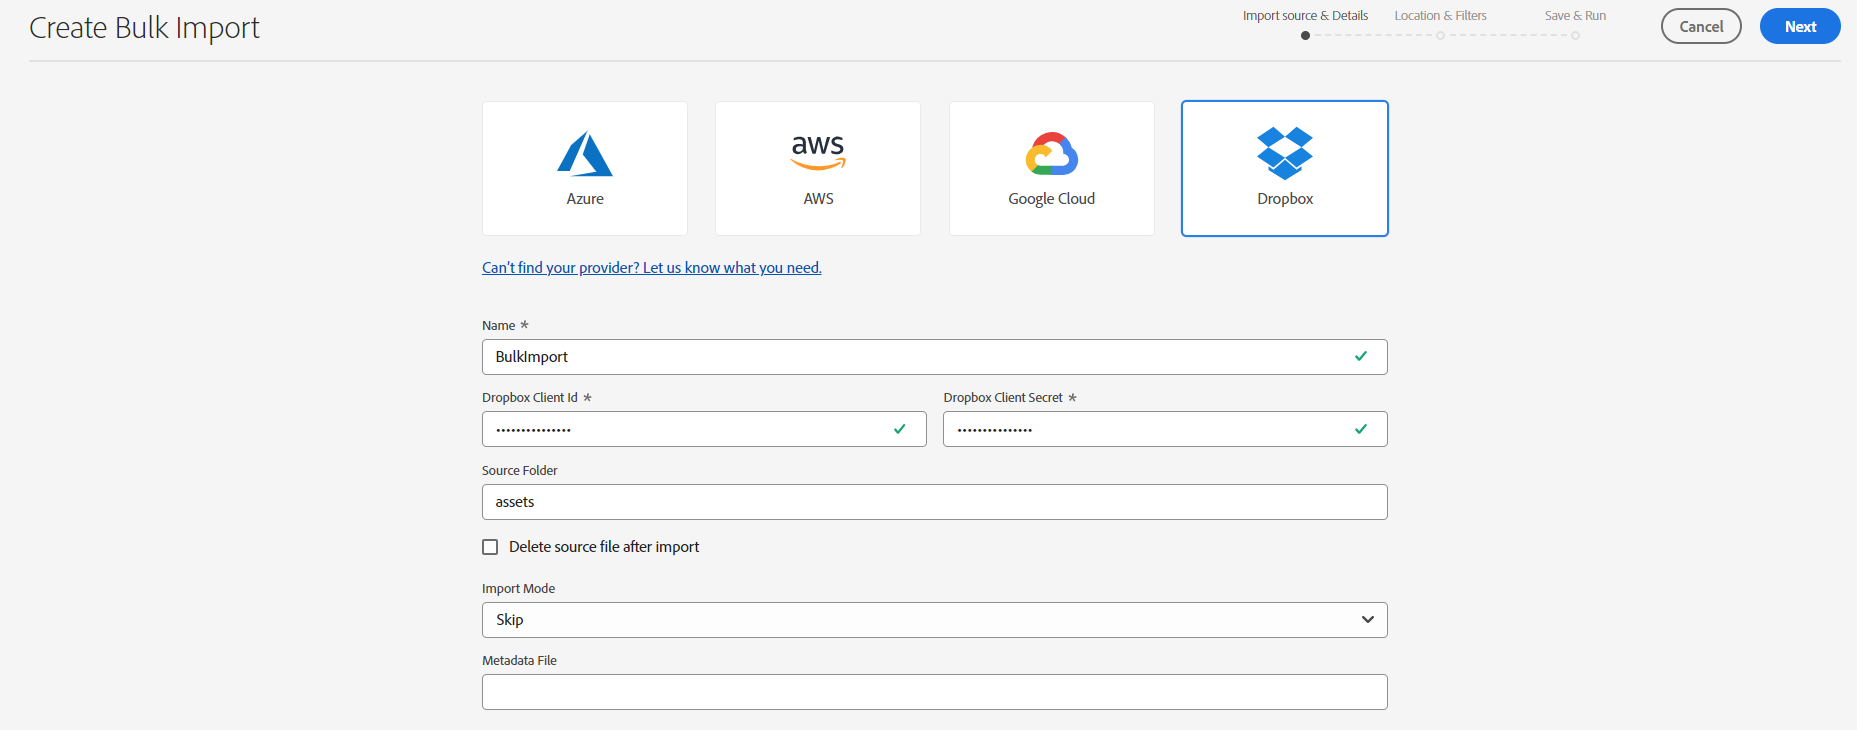
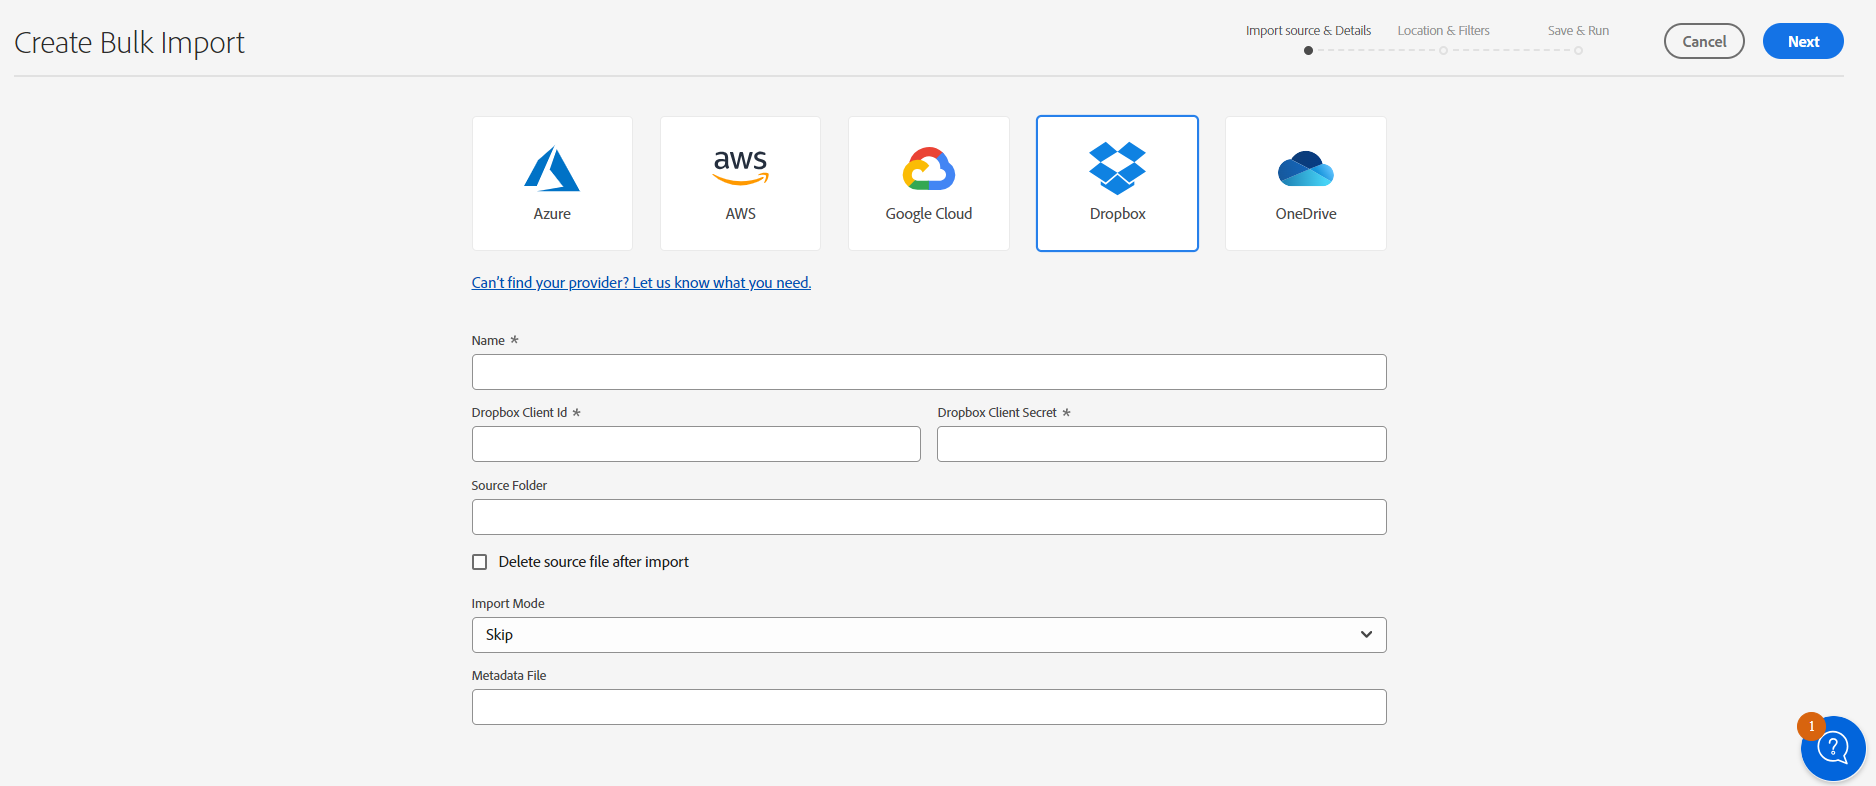
October release updates

diff --git a/help/using/bulk-import-assets-view.md b/help/using/bulk-import-assets-view.md
@@ -22,6 +22,7 @@ You can import assets from the following data sources:
 * AWS
 * Google Cloud
 * Dropbox
+* OneDrive
 
 ## Prerequisites {#prerequisites}
 
@@ -31,8 +32,80 @@ You can import assets from the following data sources:
 | AWS | <ul> <li>AWS Region </li> <li> AWS Bucket <li> AWS Access Key </li><li> AWS Access Secret </li></ul> |
 | Google Cloud | <ul> <li>GCP Bucket </li> <li> GCP Service Account Email <li> GCP Service Account Private Key</li></ul> |
 | Dropbox | <ul> <li>Dropbox Client ID </li> <li> Dropbox Client Secret</li></ul> |
+| OneDrive | <ul> <li>OneDrive Tenant ID  </li> <li> OneDrive Client ID</li><li> OneDrive Client Secret</li></ul> |
 
 In addition to these prerequisites based on the data source, you must be aware of the source folder name available in your data source that contains all assets that need to be imported to AEM Assets.
+
+## Configure the Dropbox developer application {#dropbox-developer-application}
+
+Before importing assets from your Dropbox account to AEM Assets, create and configure the Dropbox developer application.
+
+Execute the following steps:
+
+1. Login to your [Dropbox account](https://www.dropbox.com/developers) and click **[!UICONTROL Create apps]**.
+
+1. In the **[!UICONTROL Choose an API]** section, select the only available radio button.
+
+1. In the **[!UICONTROL Choose the type of access you need]** section, select one of the following options:
+
+   * Select **[!UICONTROL App folder]**, if you need access to single folder created within your application in your Dropbox account.
+
+   * Select **[!UICONTROL Full Dropbox]**, if you need access to all files and folders within your Dropbox account.
+
+1. Specify a name for your application and click **[!UICONTROL Create app]**.
+
+1. In the **[!UICONTROL Settings]** tab of your application, add the following to the **[!UICONTROL Redirect URIs]** section:
+
+   * https://exc-unifiedcontent.experience.adobe.net
+
+   * https://exc-unifiedcontent.experience-stage.adobe.net (valid only for Stage environments)
+
+1. Copy the values for the **[!UICONTROL App key]** and **[!UICONTROL App secret]** fields. The values are required while configuring the bulk import tool in AEM Assets.
+
+1. On the **[!UICONTROL Permissions]** tab, add the following permissions within the **[!UICONTROL Individual scopes]** section.
+
+   * account_info.read
+
+   * files.metadata.read
+
+   * files.content.read
+
+   * files.content.write
+
+1. Click **[!UICONTROL Submit]** to save the changes.
+
+## Configure the OneDrive developer application {#onedrive-developer-application}
+
+Before importing assets from your OneDrive account to AEM Assets, create and configure the OneDrive developer application.
+
+Execute the following steps:
+
+1. Login to your [OneDrive account](https://portal.azure.com/#view/Microsoft_AAD_RegisteredApps/ApplicationsListBlade) and click **[!UICONTROL New registration]**.
+
+1. Specify a name for the application, select **[!UICONTROL Accounts in this organizational directory only (Adobe only - Single tenant)]** from **[!UICONTROL Supported account types]**, and click **[!UICONTROL Register]**. The application is created successfully.
+
+1. Copy the values for the application client ID and tenant ID fields. The values are required while configuring the bulk import tool in AEM Assets.
+
+1. Execute the following steps to add a certificate:
+   1. On the application overview page, click **[!UICONTROL Add a certificate or secret]** and then click **[!UICONTROL New client secret]**.
+   1. Specify the client secret description and expiration and click **[!UICONTROL Add]**.
+   1. After creating the Client Secret, copy the **[!UICONTROL Value]** field (Do not copy the Secret ID field). It is required while configuring bulk import in AEM Assets.
+
+1. Execute the following steps to add redirect URIs:
+   1. On the application overview page, click **[!UICONTROL Add a Redirect URI]** > **[!UICONTROL Add a platform]** > **[!UICONTROL Web]**.
+   1. Add the following to the **[!UICONTROL Redirect URIs]** section:
+
+      * https://exc-unifiedcontent.experience.adobe.net
+
+      * https://exc-unifiedcontent.experience-stage.adobe.net (valid only for Stage environments)
+
+      Add the first URI and click **[!UICONTROL Configure]** to add it. You can add more by clicking **[!UICONTROL Add URI]** option available in the **[!UICONTROL Web]** section on the **[!UICONTROL Authentication]** page.
+
+1. Execute the following steps to add API permissions for the application:
+   1. Click **[!UICONTROL API permissions]** in left pane and click **[!UICONTROL Add a permission]**.
+   1. Click **[!UICONTROL Microsoft Graph]** > **[!UICONTROL Delegated permissions]**. The **[!UICONTROL Select Permission]** section displays the available permissions.
+   1. Select `offline_access` permission from `OpenId permissions` and `Files.ReadWrite.All` permission from `Files`.
+   1. Click **[!UICONTROL Add permissions]** to save the updates.
 
 ## Create bulk import configuration {#create-bulk-import-configuration}
 
@@ -43,6 +116,13 @@ Execute the following steps to create a bulk import configuration:
 1. Specify a name for the bulk import configuration in the **[!UICONTROL Name]** field.
 1. Specify the data source specific credentials, as mentioned in [Prerequisites](#prerequisites).
 1. Provide the name of the root folder that contains assets in the data source in the **[!UICONTROL Source Folder]** field.
+
+   >[!NOTE]
+   >
+   >If you are using Dropbox as the data source, specify the source folder path based on the following rules:
+   >* If you select **Full Dropbox** while creating the Dropbox application and the folder which contains the assets exists at `https://www.dropbox.com/home/bulkimport-assets`, then specify `bulkimport-assets` in the **[!UICONTROL Source Folder]** field.
+   >* If you select **App folder** while creating the Dropbox application and the folder which contains the assets exists at `https://www.dropbox.com/home/Apps/BulkImportAppFolderScope/bulkimport-assets`, then specify `bulkimport-assets` in the **[!UICONTROL Source Folder]** field, where `BulkImportAppFolderScope` refers to the name of the application. `Apps` is automatically added after `home` in this case. 
+
 1. (Optional) Select the **[!UICONTROL Delete source file after import]** option to delete the original files from the source data store after the files are imported into Experience Manager Assets.
 1. Select the **[!UICONTROL Import Mode]**. Select **[!UICONTROL Skip]**, **[!UICONTROL Replace]**, or **[!UICONTROL Create Version]**. Skip mode is the default and in this mode, the ingestor skips to import an asset if it exists already.
 ![Import source details](assets/bulk-import-source-details.png)

diff --git a/help/using/release-notes.md b/help/using/release-notes.md
@@ -7,9 +7,45 @@ exl-id: a0e29eb6-336a-4f78-b7bd-ec1338c86775
 ---
 # Release notes of [!DNL Assets Essentials] {#release-notes}
 
-The current release of Assets Essentials is released on September 21, 2023.
+The current release of Assets Essentials is released on October 26, 2023.
 
-The list of recently added features include:
+The new features include:
+
+**Bulk import assets from OneDrive data source**
+
+Administrators now have the ability to [import large number of assets from OneDrive to AEM Assets](/help/using/bulk-import-assets-view.md). The updated list for the supported data sources for bulk import include Azure, AWS, Google Cloud, Dropbox, and OneDrive. 
+
+  ![assign metadata form to a folder](/help/using/assets/bulk-import-source-details.png)
+
+**Cross-Org Entitlement Support for Libraries**
+
+Experience Manager Assets now enables you to access your Creative Cloud libraries in an Org that is not provisioned for those libraries. It allows easier access to the latest cross-product workflows between Creative Cloud and Experience Manager and reduced time and effort for creatives.
+
+**Improvements based on customer feedback**
+
+Enhancements and bug fixes based on customer feedback.
+
+
+## Known issues {#known-issues}
+
+The list of known issues of [!DNL Assets Essentials] offering is revised and updated on an ongoing basis:
+
+<!--
+
+* Assets Essentials does not support creating Private collections.
+
+-->
+
+
+* Private collections are available to creator and the users with administrator privileges. As an administrator, you cannot delegate the permissions to access the collection to other users.
+
+* As an administrator, you cannot delegate the permissions to access the collection to other users.
+
+If you come across any issues or even enhancement requests, [provide feedback](#provide-feedback) to the team.
+
+## Past releases {#past-releases}
+
+### September 2023 release {#september2023-release}
 
 **Assign metadata form to a folder**
 
@@ -35,29 +71,6 @@ Ability to select and pin items for you, for your entire organization, or for a 
 
 ![Pin items for groups](assets/pin-items-for-groups.png)
 
-**Improvements based on customer feedback**
-
-Enhancements and bug fixes based on customer feedback.
-
-
-## Known issues {#known-issues}
-
-The list of known issues of [!DNL Assets Essentials] offering is revised and updated on an ongoing basis:
-
-<!--
-
-* Assets Essentials does not support creating Private collections.
-
--->
-
-
-* Private collections are available to creator and the users with administrator privileges. As an administrator, you cannot delegate the permissions to access the collection to other users.
-
-* As an administrator, you cannot delegate the permissions to access the collection to other users.
-
-If you come across any issues or even enhancement requests, [provide feedback](#provide-feedback) to the team.
-
-## Past releases {#past-releases}
 
 ### July 2023 release {#july2023-release}
 
